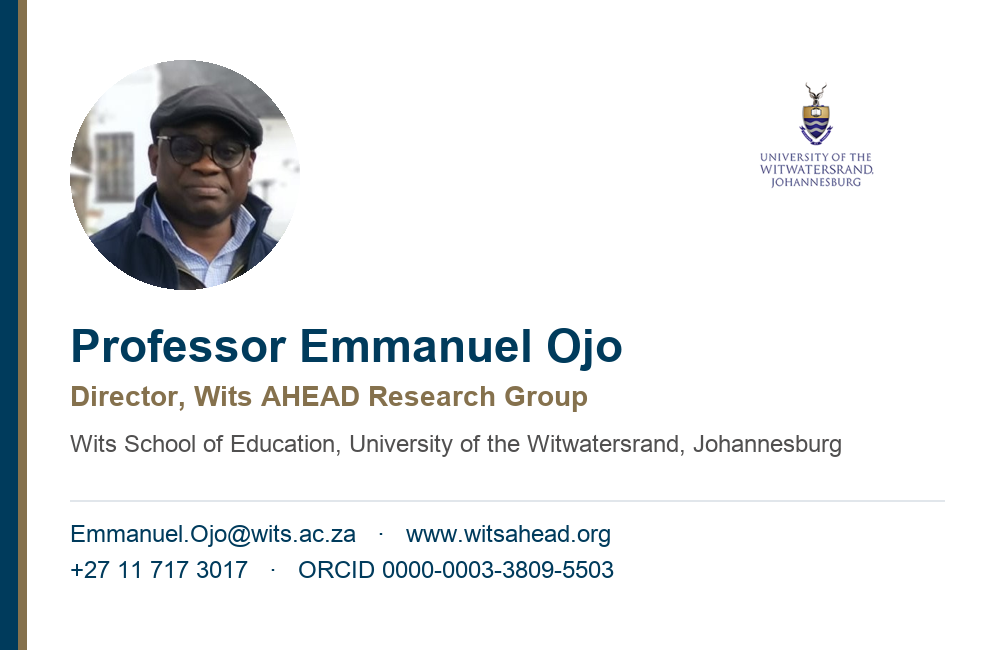
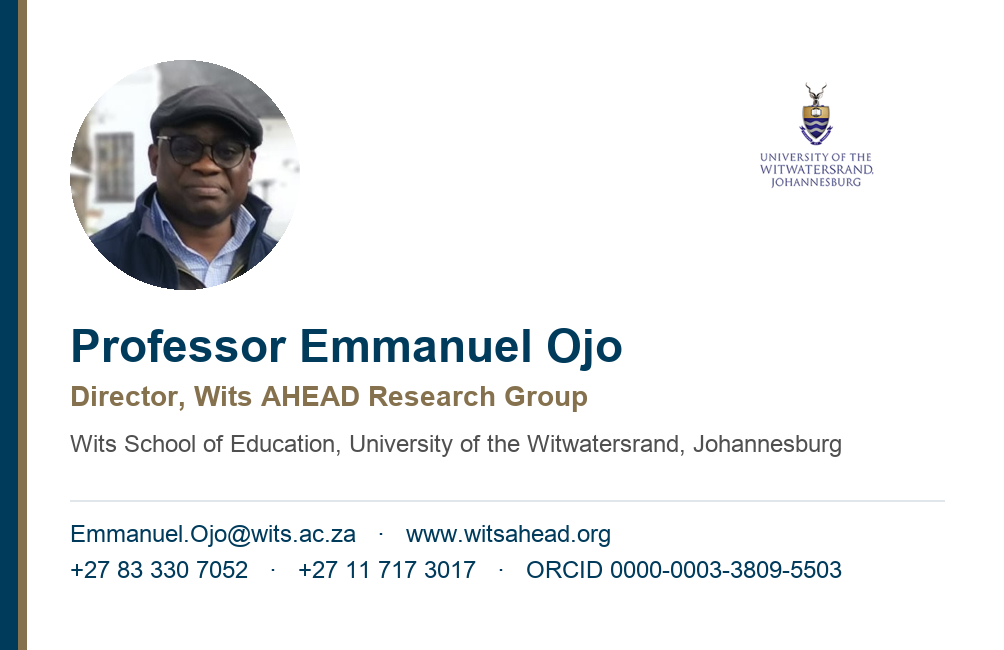
Site update 2026-09-15 00:38

Changed region(s): [[0.2779, 0.8615, 0.8337, 0.8923], [0.0926, 0.8615, 0.247, 0.8923]]

diff --git a/card/index.html b/card/index.html
@@ -61,7 +61,7 @@ body{font-family:var(--font);color:var(--text);background:radial-gradient(1200px
       <a href="#" id="share"><svg viewBox="0 0 24 24"><circle cx="6" cy="12" r="2"/><circle cx="18" cy="6" r="2"/><circle cx="18" cy="18" r="2"/><path d="M8 11l8-4M8 13l8 4"/></svg><span data-t="share">Share</span></a>
       <a class="wide" id="exchange" href="mailto:Emmanuel.Ojo@wits.ac.za"><svg viewBox="0 0 24 24"><path d="M3 6h18v12H3z"/><path d="M3 7l9 6 9-6"/></svg><span data-t="exchange">Send me your details</span></a>
     </div>
-    <div class="rows"><a class="row an" href="mailto:Emmanuel.Ojo@wits.ac.za"><span class="ic"><svg viewBox="0 0 24 24"><path d="M3 6h18v12H3z"/><path d="M3 7l9 6 9-6"/></svg></span><span class="tx"><b>Emmanuel.Ojo@wits.ac.za</b><small data-t="email">Email</small></span></a><a class="row an" href="https://www.witsahead.org/" target="_blank" rel="noopener"><span class="ic"><svg viewBox="0 0 24 24"><circle cx="12" cy="12" r="9"/><path d="M3 12h18M12 3a14 14 0 010 18M12 3a14 14 0 000 18"/></svg></span><span class="tx"><b>www.witsahead.org</b><small data-t="web">Website</small></span></a><a class="row an" href="https://pathway.witsahead.org/" target="_blank" rel="noopener"><span class="ic"><svg viewBox="0 0 24 24"><path d="M4 20l6-6M14 4a6 6 0 11-4.2 10.2L4 20"/><circle cx="15" cy="9" r="2"/></svg></span><span class="tx"><b>pathway.witsahead.org</b><small data-t="pathway">For candidates</small></span></a><a class="row an" href="tel:+27117173017"><span class="ic"><svg viewBox="0 0 24 24"><path d="M5 4h4l2 5-2.5 1.5a11 11 0 005 5L15 13l5 2v4a2 2 0 01-2 2A16 16 0 013 6a2 2 0 012-2z"/></svg></span><span class="tx"><b>+27 11 717 3017</b><small data-t="tel">Office</small></span></a><a class="row an" href="https://orcid.org/0000-0003-3809-5503" target="_blank" rel="noopener"><span class="ic"><svg viewBox="0 0 24 24"><circle cx="12" cy="12" r="9"/><path d="M9 8v8M15 8v8M9 8h3a4 4 0 010 8H9"/></svg></span><span class="tx"><b>0000-0003-3809-5503</b><small data-t="orcid">ORCID</small></span></a><div class="row an"><span class="ic"><svg viewBox="0 0 24 24"><path d="M12 22s7-7 7-12a7 7 0 10-14 0c0 5 7 12 7 12z"/><circle cx="12" cy="10" r="2.5"/></svg></span><span class="tx"><b>Wits School of Education, University of the Witwatersrand, Private Bag 3, Wits 2050, Johannesburg, South Africa</b><small data-t="addr">Postal address</small></span></div></div>
+    <div class="rows"><a class="row an" href="mailto:Emmanuel.Ojo@wits.ac.za"><span class="ic"><svg viewBox="0 0 24 24"><path d="M3 6h18v12H3z"/><path d="M3 7l9 6 9-6"/></svg></span><span class="tx"><b>Emmanuel.Ojo@wits.ac.za</b><small data-t="email">Email</small></span></a><a class="row an" href="https://www.witsahead.org/" target="_blank" rel="noopener"><span class="ic"><svg viewBox="0 0 24 24"><circle cx="12" cy="12" r="9"/><path d="M3 12h18M12 3a14 14 0 010 18M12 3a14 14 0 000 18"/></svg></span><span class="tx"><b>www.witsahead.org</b><small data-t="web">Website</small></span></a><a class="row an" href="https://pathway.witsahead.org/" target="_blank" rel="noopener"><span class="ic"><svg viewBox="0 0 24 24"><path d="M4 20l6-6M14 4a6 6 0 11-4.2 10.2L4 20"/><circle cx="15" cy="9" r="2"/></svg></span><span class="tx"><b>pathway.witsahead.org</b><small data-t="pathway">For candidates</small></span></a><a class="row an" href="tel:+27117173017"><span class="ic"><svg viewBox="0 0 24 24"><path d="M5 4h4l2 5-2.5 1.5a11 11 0 005 5L15 13l5 2v4a2 2 0 01-2 2A16 16 0 013 6a2 2 0 012-2z"/></svg></span><span class="tx"><b>+27 11 717 3017</b><small data-t="tel">Office</small></span></a><a class="row an" href="tel:+27833307052"><span class="ic"><svg viewBox="0 0 24 24"><rect x="7" y="2" width="10" height="20" rx="2"/><path d="M11 18h2"/></svg></span><span class="tx"><b>+27 83 330 7052</b><small data-t="cell">Mobile</small></span></a><a class="row an" href="https://orcid.org/0000-0003-3809-5503" target="_blank" rel="noopener"><span class="ic"><svg viewBox="0 0 24 24"><circle cx="12" cy="12" r="9"/><path d="M9 8v8M15 8v8M9 8h3a4 4 0 010 8H9"/></svg></span><span class="tx"><b>0000-0003-3809-5503</b><small data-t="orcid">ORCID</small></span></a><div class="row an"><span class="ic"><svg viewBox="0 0 24 24"><path d="M12 22s7-7 7-12a7 7 0 10-14 0c0 5 7 12 7 12z"/><circle cx="12" cy="10" r="2.5"/></svg></span><span class="tx"><b>Wits School of Education, University of the Witwatersrand, Private Bag 3, Wits 2050, Johannesburg, South Africa</b><small data-t="addr">Postal address</small></span></div></div>
     <div class="qr an"><svg viewBox="0 0 31 31" width="150" height="150" shape-rendering="crispEdges" role="img" aria-label="QR code for witsahead.org/card" class="segno"><path class="qrline" stroke="#003b5c" d="M1 1.5h7m4 0h1m1 0h1m1 0h1m2 0h3m1 0h7m-29 1h1m5 0h1m3 0h2m2 0h2m3 0h1m2 0h1m5 0h1m-29 1h1m1 0h3m1 0h1m1 0h1m2 0h4m1 0h2m1 0h2m1 0h1m1 0h3m1 0h1m-29 1h1m1 0h3m1 0h1m2 0h3m1 0h3m2 0h3m1 0h1m1 0h3m1 0h1m-29 1h1m1 0h3m1 0h1m1 0h1m1 0h2m10 0h1m1 0h3m1 0h1m-29 1h1m5 0h1m1 0h2m2 0h1m1 0h3m1 0h2m2 0h1m5 0h1m-29 1h7m1 0h1m1 0h1m1 0h1m1 0h1m1 0h1m1 0h1m1 0h1m1 0h7m-20 1h1m2 0h1m1 0h4m-17 1h1m2 0h1m1 0h1m1 0h3m1 0h3m1 0h1m1 0h1m1 0h2m1 0h2m1 0h1m-27 1h2m1 0h3m4 0h2m1 0h1m1 0h2m1 0h1m1 0h1m1 0h3m2 0h2m-29 1h1m2 0h4m3 0h3m2 0h2m4 0h1m2 0h1m1 0h1m1 0h1m-26 1h1m1 0h1m3 0h2m2 0h3m1 0h2m1 0h2m2 0h2m1 0h2m-29 1h2m1 0h1m2 0h2m1 0h4m1 0h4m1 0h2m2 0h1m1 0h1m2 0h1m-29 1h2m3 0h1m1 0h1m3 0h2m1 0h1m2 0h2m3 0h1m1 0h1m1 0h1m1 0h1m-28 1h1m1 0h1m1 0h2m1 0h3m2 0h2m1 0h1m1 0h1m1 0h3m1 0h1m2 0h2m-29 1h2m3 0h1m1 0h2m2 0h1m3 0h2m2 0h2m2 0h1m1 0h1m1 0h2m-29 1h2m4 0h3m1 0h1m4 0h2m2 0h3m5 0h1m-28 1h5m2 0h3m3 0h1m4 0h1m3 0h1m1 0h1m3 0h1m-27 1h2m1 0h3m1 0h1m1 0h3m1 0h1m1 0h1m6 0h3m1 0h1m-27 1h1m1 0h2m1 0h3m2 0h1m2 0h5m5 0h1m-26 1h2m1 0h1m1 0h2m4 0h1m5 0h1m1 0h6m3 0h1m-21 1h1m1 0h7m1 0h1m1 0h1m3 0h1m1 0h1m1 0h1m-29 1h7m2 0h1m1 0h1m1 0h1m1 0h1m1 0h1m1 0h2m1 0h1m1 0h1m3 0h1m-29 1h1m5 0h1m4 0h1m3 0h1m1 0h4m3 0h2m2 0h1m-29 1h1m1 0h3m1 0h1m1 0h1m2 0h4m3 0h7m-25 1h1m1 0h3m1 0h1m2 0h6m1 0h2m5 0h1m1 0h3m-28 1h1m1 0h3m1 0h1m3 0h5m1 0h2m1 0h3m4 0h3m-29 1h1m5 0h1m1 0h1m1 0h3m1 0h1m2 0h1m1 0h5m1 0h1m1 0h2m-29 1h7m2 0h2m1 0h1m1 0h2m1 0h1m2 0h2m2 0h2m1 0h1"/></svg><b>witsahead.org/card</b><small data-t="scan">Scan to save this card</small></div>
   </div>
   <p class="foot"><span data-t="foot">Held by the Wits AHEAD Research Group. No tracking, no cookies.</span><br><a href="/">witsahead.org</a> · <a href="/privacy/">Privacy</a></p>
